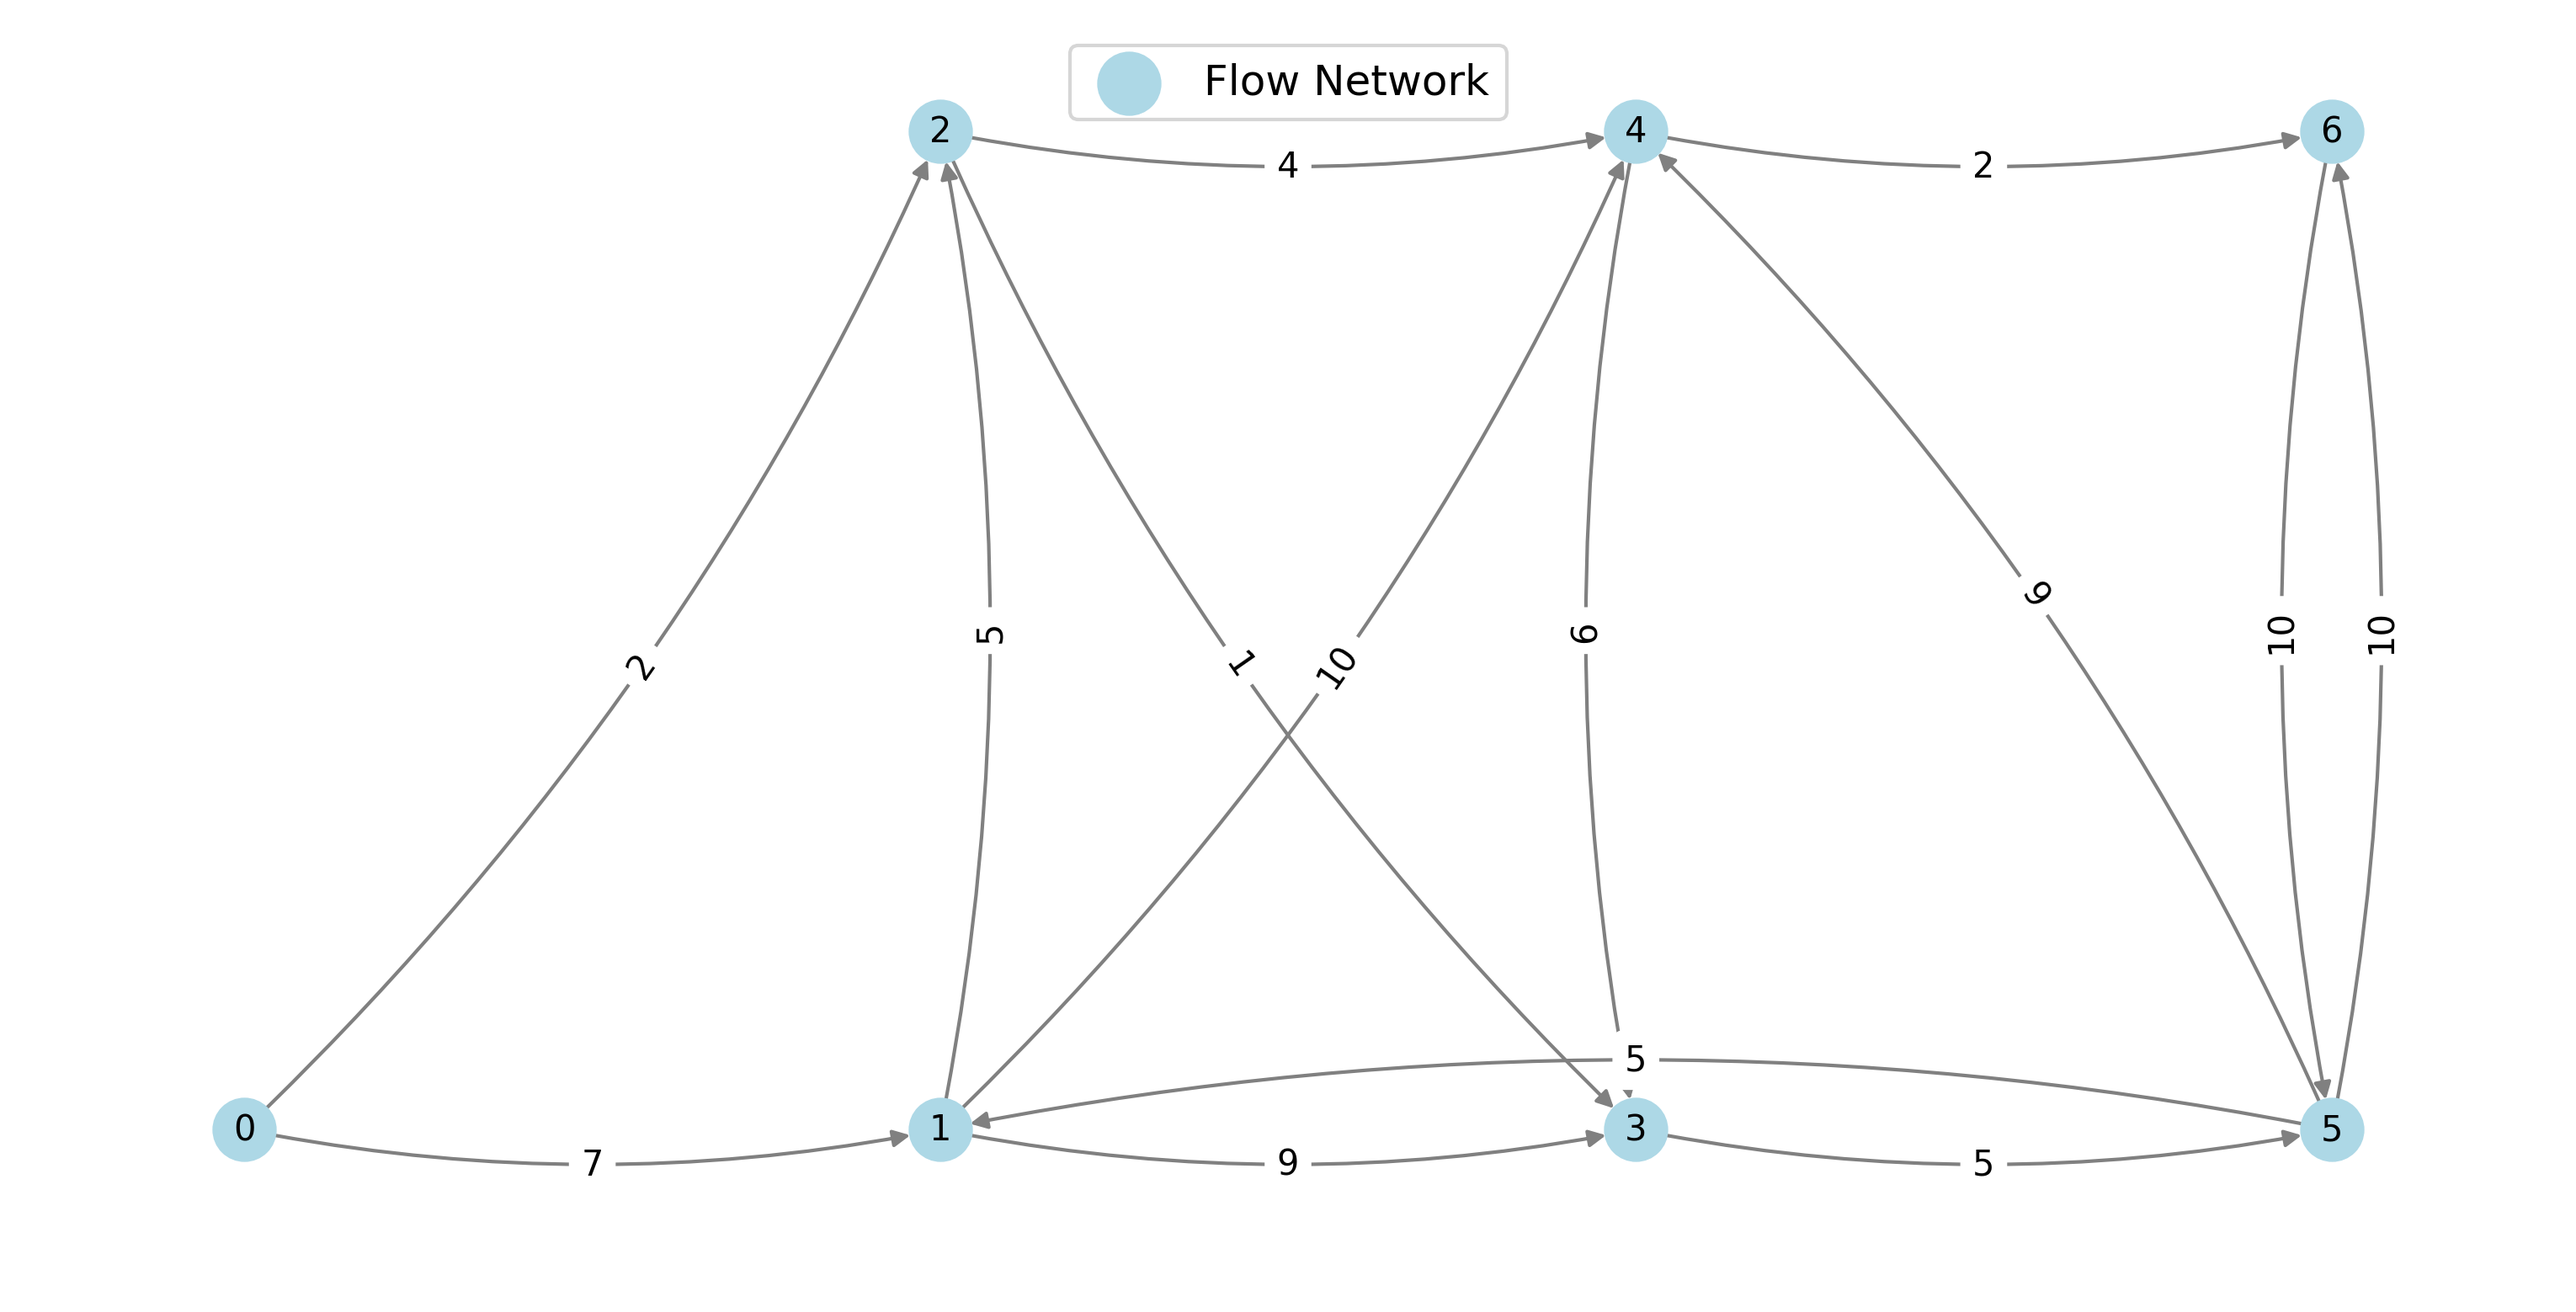
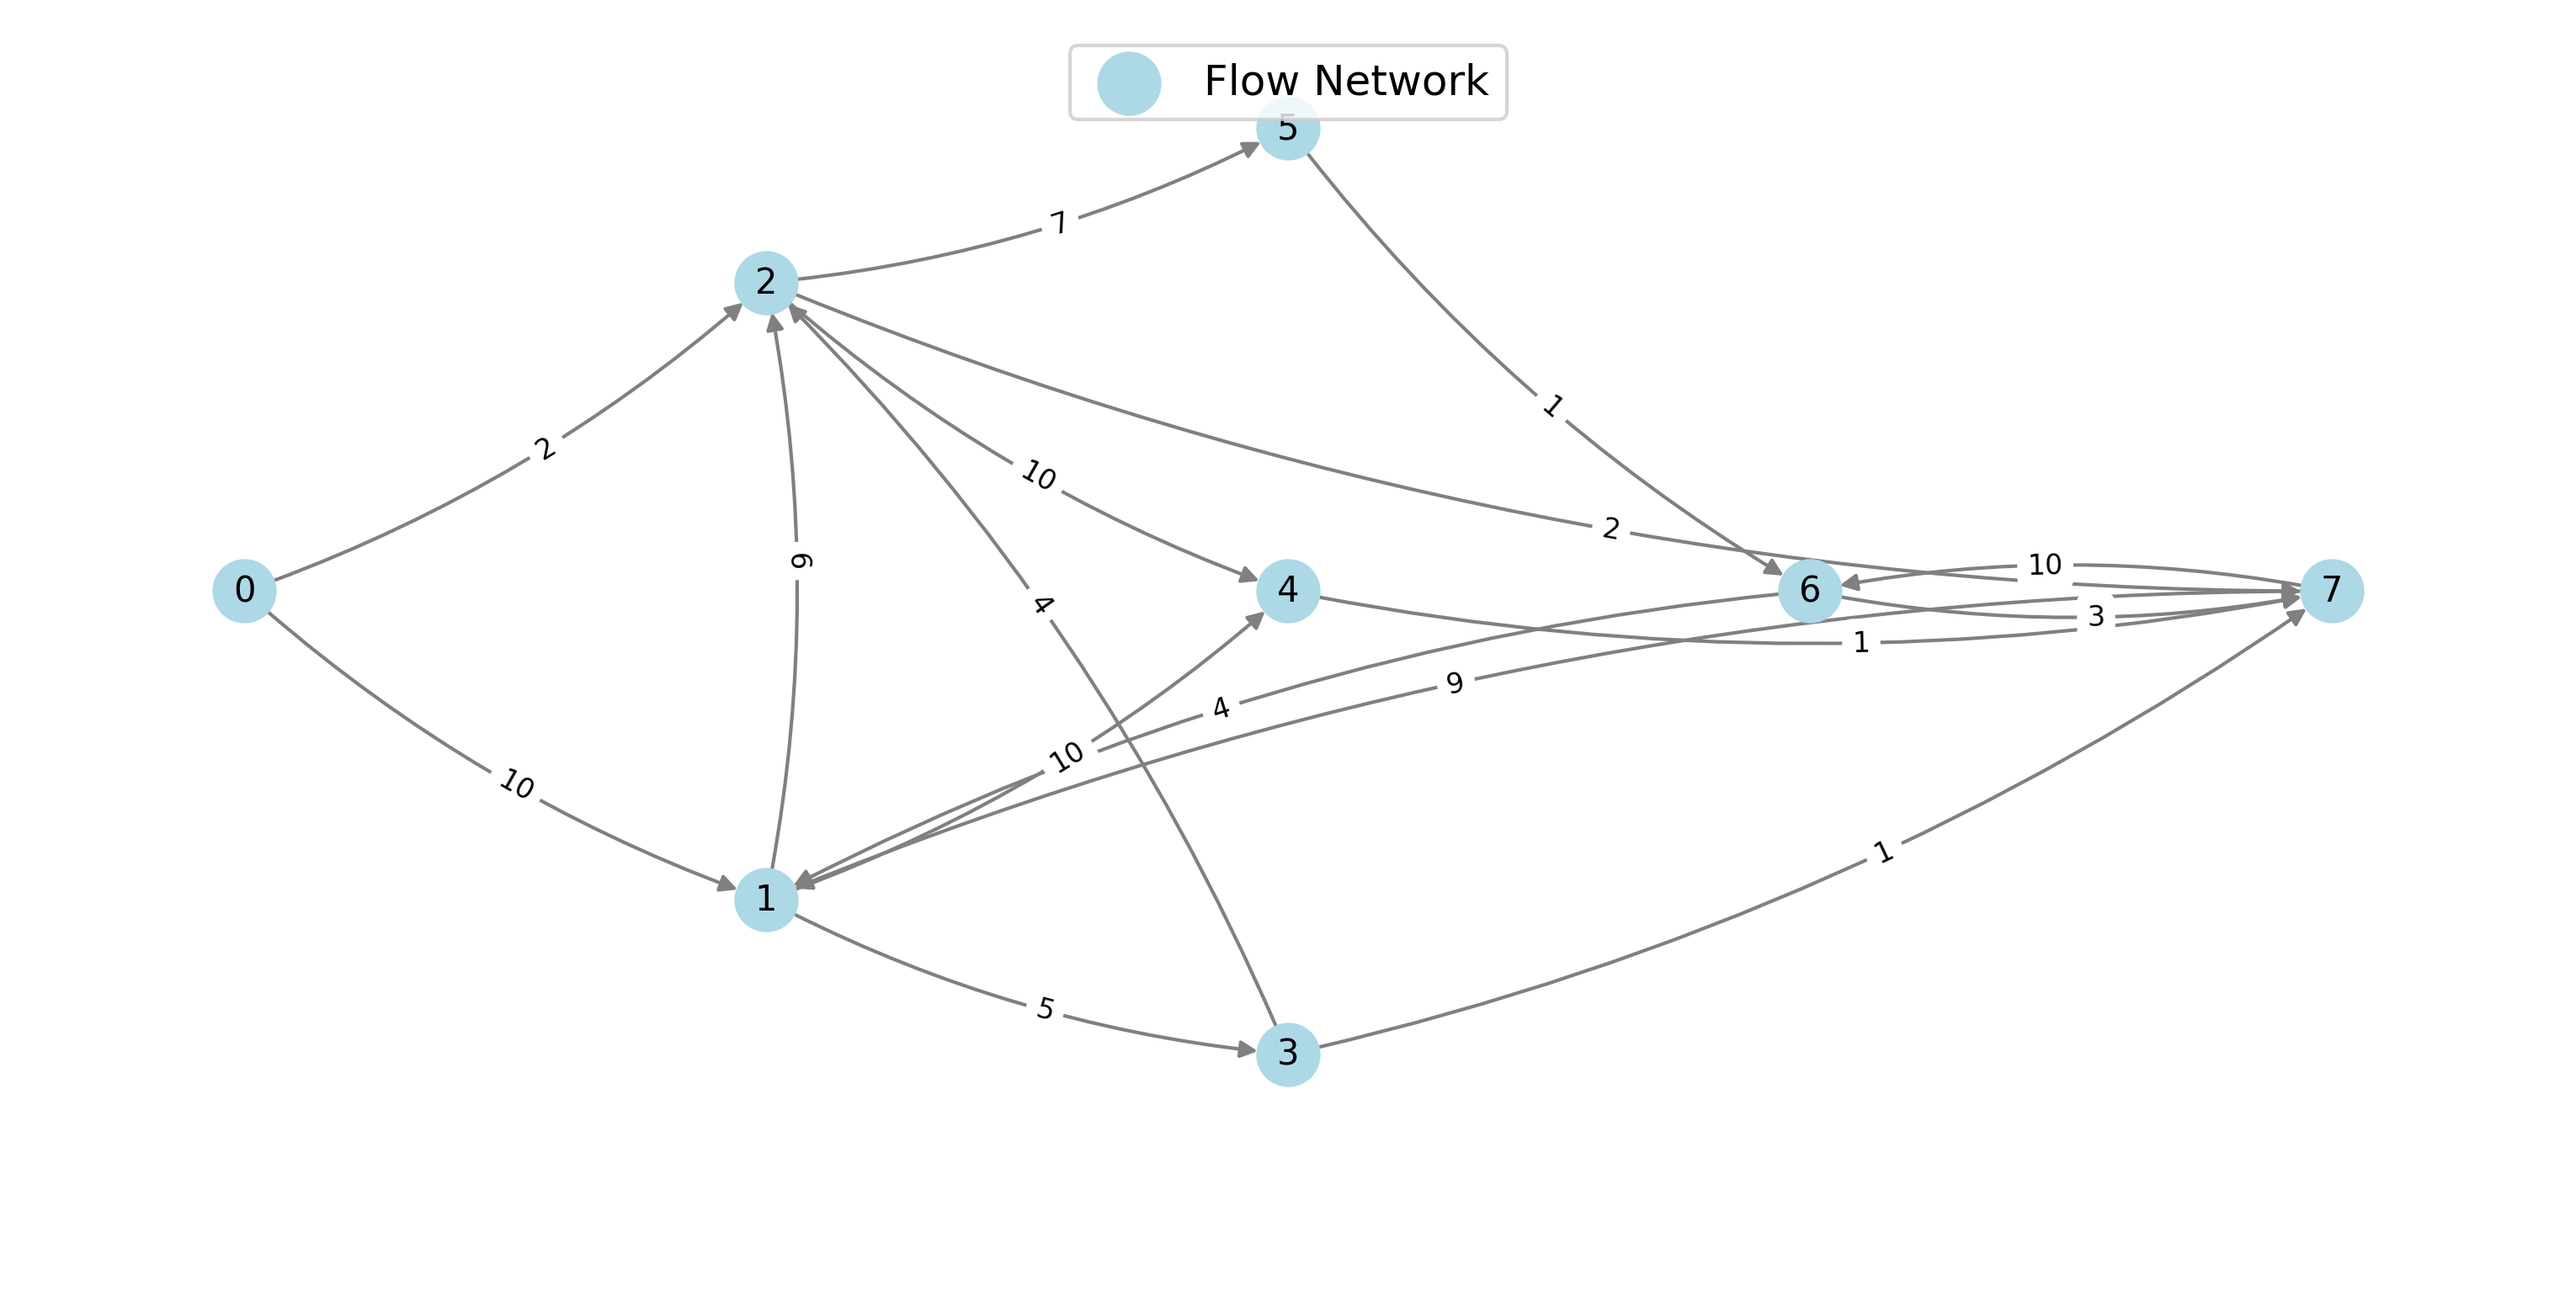
repaired the drawing flow network function

diff --git a/DrawGraph.py b/DrawGraph.py
@@ -79,15 +79,14 @@ def Draw_Flow_Network(graph: FlowNetwork, legend_title: str, filename: str = 'fl
         layers = graph.internal_layers
         pos = {}
         for layer_idx, layer in enumerate(layers):
-            y_step = 1.0
-            #y_step = 1.0 / (len(layer) + 1)
+            y_step = 1.0 / (len(layer) + 1)
             for i, node in enumerate(layer):
                 pos[node] = (layer_idx, (i + 1) * y_step)
 
         plt.figure(figsize=(10, 5))
-        nx.draw(G, pos, with_labels=True, node_color='lightblue', edge_color='gray', font_size = 10, arrows=True, connectionstyle="arc3,rad=0.1")
+        nx.draw(G, pos = pos, with_labels=True, node_color='lightblue', edge_color='gray', font_size = 10, arrows=True, connectionstyle="arc3,rad=0.1")
         edge_labels = nx.get_edge_attributes(G, 'weight')
-        nx.draw_networkx_edge_labels(G, pos, edge_labels=edge_labels, connectionstyle="arc3,rad=0.1")
+        nx.draw_networkx_edge_labels(G, pos, edge_labels=edge_labels, connectionstyle="arc3,rad=0.1", font_size=8, label_pos=0.55)
         plt.legend([legend_title], loc="upper center", fontsize=12)
         plt.axis('off')
         plt.savefig(filepath, dpi=300, bbox_inches='tight')

diff --git a/Algorithms.py b/Algorithms.py
@@ -79,7 +79,14 @@ def get_layers_from_network(network: FlowNetwork, start_node: int = 0) -> list[l
                 level[v] = level[node] + 1
                 visited.add(v)
                 queue.append(v)
-    return [layers[i] for i in range(max(level.values()) + 1)]    
+    
+    maximum_layer = max(level.values())
+    sink = max(layers[maximum_layer])
+    layers[maximum_layer].remove(sink)
+    maximum_layer += 1
+    layers.setdefault(maximum_layer,[]).append(sink)
+    
+    return [layers[i] for i in range(maximum_layer + 1)]    
 
     
 def generate_random_flow_network(nmbr_inter_layers: int, probability: float) -> FlowNetwork:
